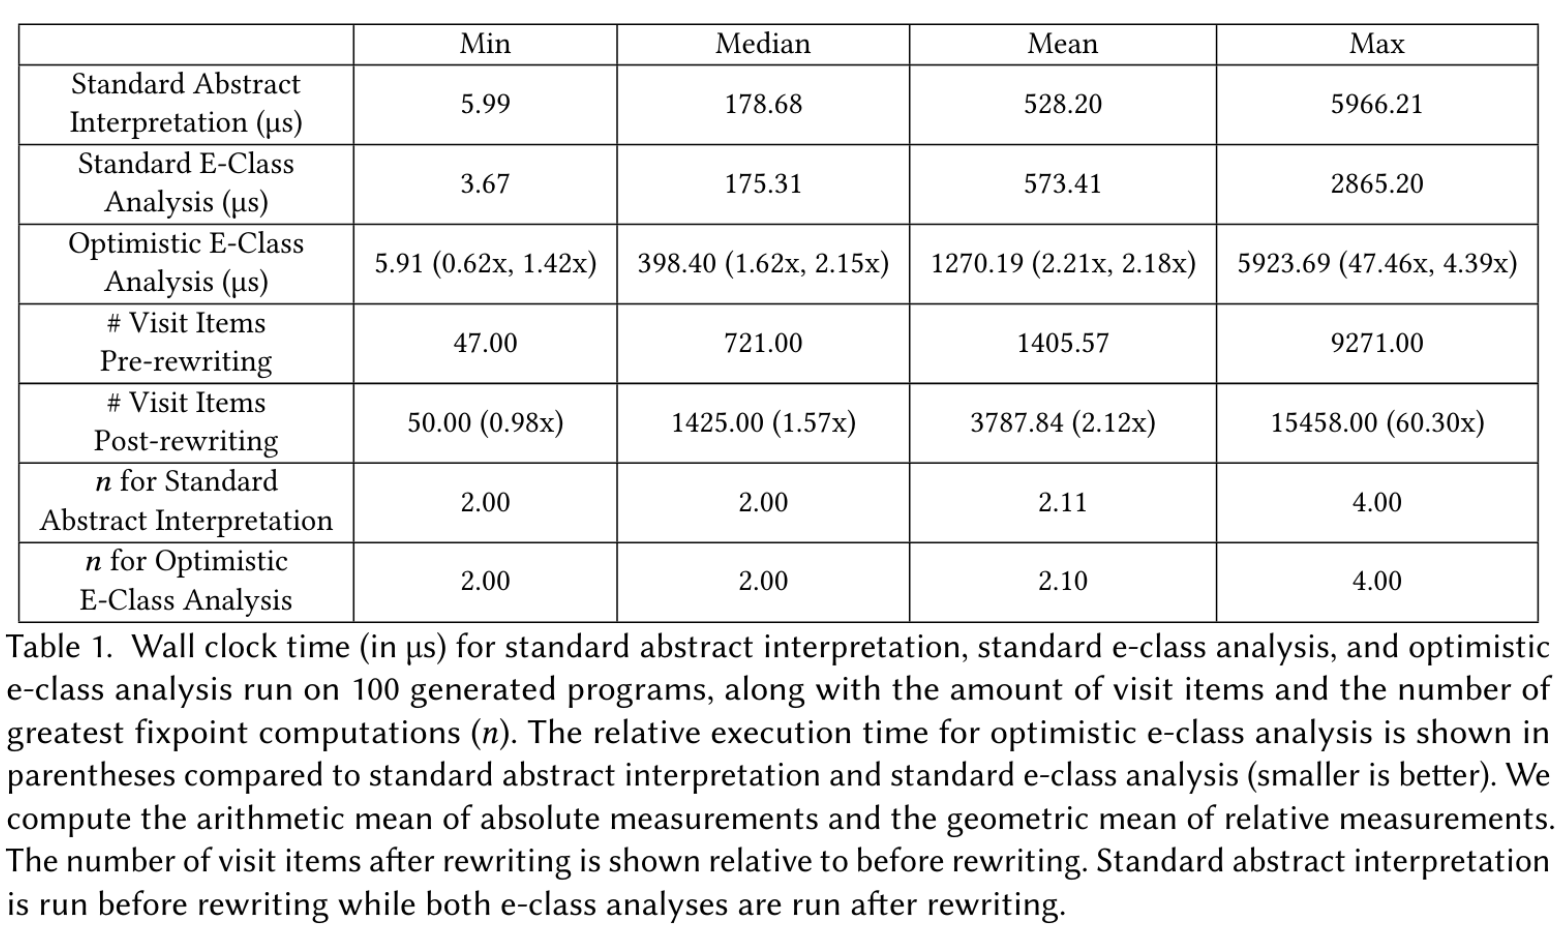
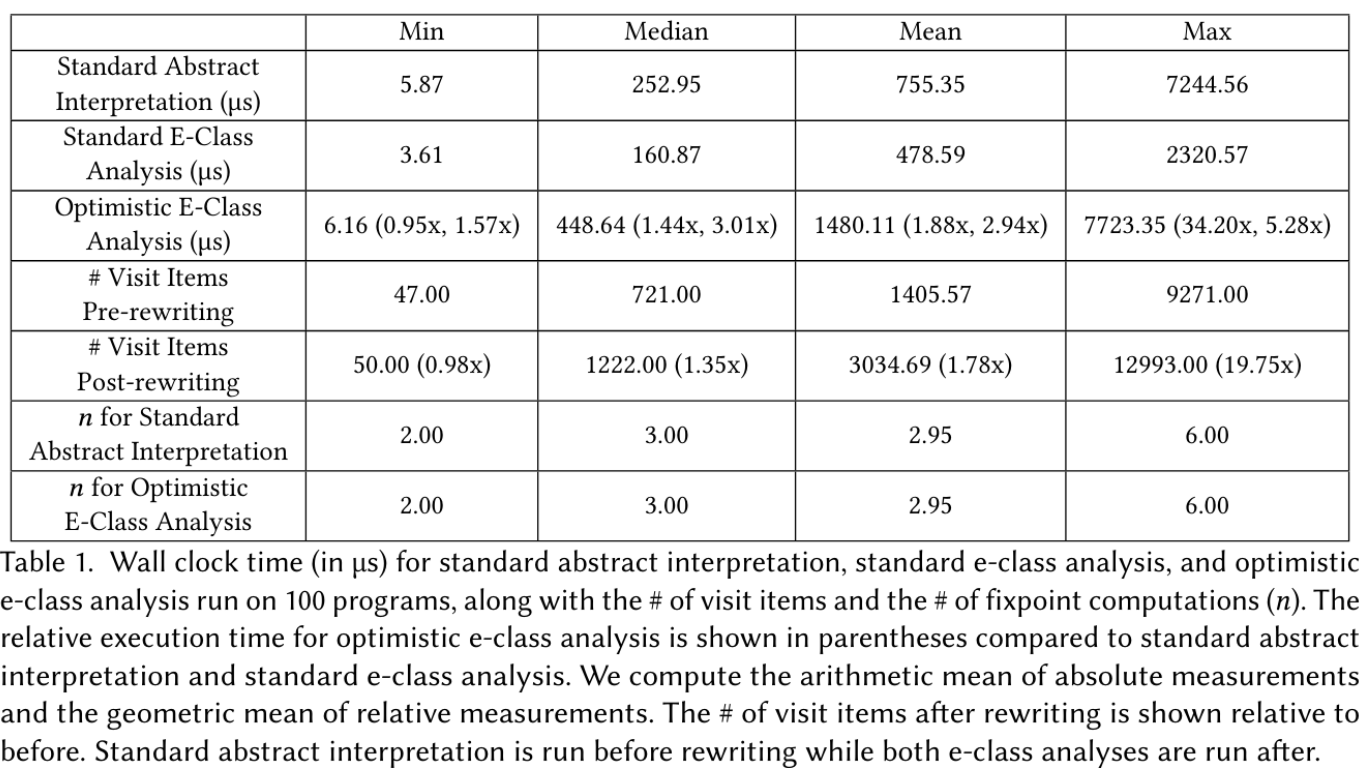
Artifact (camera ready paper version)

Changed region(s): [[0.0, 0.0, 1.0, 1.0]]

diff --git a/opt-eqsat/src/bin/experiment.rs b/opt-eqsat/src/bin/experiment.rs
@@ -98,8 +98,8 @@ fn main() {
     let mut max_component_head_phis = 0;
     let mut max_outer_iters1 = 0;
     let mut max_outer_iters3 = 0;
-    let mut num_outer_iters_is_two1 = 0;
-    let mut num_outer_iters_is_two3 = 0;
+    let mut num_outer_iters_is_at_most_three1 = 0;
+    let mut num_outer_iters_is_at_most_three3 = 0;
     let mut avg_avg_visits_per_item1 = 0.0f64;
     let mut avg_avg_visits_per_item2 = 0.0f64;
     let mut avg_avg_visits_per_item3 = 0.0f64;
@@ -212,11 +212,11 @@ fn main() {
         max_component_head_phis = max(max_component_head_phis, num_component_head_phis);
         max_outer_iters1 = max(max_outer_iters1, num_outer_iters1);
         max_outer_iters3 = max(max_outer_iters3, num_outer_iters3);
-        if num_outer_iters1 == 2 {
-            num_outer_iters_is_two1 += 1;
+        if num_outer_iters1 <= 3 {
+            num_outer_iters_is_at_most_three1 += 1;
         }
-        if num_outer_iters3 == 2 {
-            num_outer_iters_is_two3 += 1;
+        if num_outer_iters3 <= 3 {
+            num_outer_iters_is_at_most_three3 += 1;
         }
         avg_avg_visits_per_item1 += avg_visits_per_item1;
         avg_avg_visits_per_item2 += avg_visits_per_item2;
@@ -317,16 +317,16 @@ fn main() {
         format!("{}", num_e_nodes_per_program.iter().max().unwrap()).bold()
     );
     println!(
-        "Max number of outer iterations for standard program analysis:   {} (% where it's 2: {}%)",
+        "Max number of outer iterations for standard program analysis:   {} (% where it's at most 3: {}%)",
         max_outer_iters1,
-        num_outer_iters_is_two1 * 100 / NUM_PROGRAMS
+        num_outer_iters_is_at_most_three1 * 100 / NUM_PROGRAMS
     );
     println!(
         "Max number of outer iterations for optimistic e-class analysis: {}",
         format!(
-            "{} (% where it's 2: {}%)",
+            "{} (% where it's at most 3: {}%)",
             max_outer_iters3,
-            num_outer_iters_is_two3 * 100 / NUM_PROGRAMS
+            num_outer_iters_is_at_most_three3 * 100 / NUM_PROGRAMS
         )
         .bold()
     );
@@ -492,7 +492,7 @@ fn main() {
         \makecell{{$n$ for Optimistic \\ E-Class Analysis}} & {} & {} & {} & {} \\
          \hline
     \end{{tabular}}
-    \caption{{Wall clock time (in \textmu s) for standard abstract interpretation, standard e-class analysis, and optimistic e-class analysis run on 100 generated programs, along with the amount of visit items and the number of greatest fixpoint computations ($n$). The relative execution time for optimistic e-class analysis is shown in parentheses compared to standard abstract interpretation and standard e-class analysis (smaller is better). The number of visit items after rewriting is shown relative to before rewriting. Standard abstract interpretation is run before rewriting while both e-class analyses are run after rewriting.}}
+    \caption{{Wall clock time (in \textmu s) for standard abstract interpretation, standard e-class analysis, and optimistic e-class analysis run on 100 programs, along with the \# of visit items and the \# of fixpoint computations ($n$). The relative execution time for optimistic e-class analysis is shown in parentheses compared to standard abstract interpretation and standard e-class analysis. We compute the arithmetic mean of absolute measurements and the geometric mean of relative measurements. The \# of visit items after rewriting is shown relative to before. Standard abstract interpretation is run before rewriting while both e-class analyses are run after.}}
     \label{{tab:evaluation}}
 \end{{table}}
 "#,

diff --git a/opt-eqsat/src/analyses.rs b/opt-eqsat/src/analyses.rs
@@ -129,6 +129,7 @@ pub struct Analyses {
     pub intervals: FxHashMap<ClassId, Interval>,
     pub value_number_uf: RefCell<UnionFind>,
 
+    intervals_at_widening_points: FxHashMap<SSAValue, Interval>,
     values: FxHashMap<GVNValue, ClassId>,
 }
 
@@ -140,6 +141,7 @@ impl Analyses {
             intervals: FxHashMap::default(),
             value_number_uf: RefCell::new(UnionFind::from_num_ids(num_class_ids)),
 
+            intervals_at_widening_points: FxHashMap::default(),
             values: FxHashMap::default(),
         }
     }
@@ -220,13 +222,7 @@ impl Analyses {
         cond.is_zero()
     }
 
-    fn interval_transfer(
-        &self,
-        value: SSAValue,
-        id: ClassId,
-        cfg: &CFG,
-        old: Option<&Self>,
-    ) -> Interval {
+    fn interval_transfer(&mut self, value: SSAValue, cfg: &CFG, old: Option<&Self>) -> Interval {
         use SSAValue::*;
         match value {
             Constant(cons) => Interval::from_constant(cons),
@@ -245,11 +241,15 @@ impl Analyses {
                     (true, false) => rhs,
                     (false, false) => lhs.join(&rhs),
                 };
-                if (preds[0].2 || preds[1].2)
-                    && let Some(old) = old
-                {
-                    let old = old.intervals[&id];
-                    old.widen(&interval)
+                if preds[0].2 || preds[1].2 {
+                    self.intervals_at_widening_points.insert(value, interval);
+                    if let Some(old) =
+                        old.and_then(|old| old.intervals_at_widening_points.get(&value))
+                    {
+                        old.widen(&interval)
+                    } else {
+                        interval
+                    }
                 } else {
                     interval
                 }
@@ -320,7 +320,7 @@ impl Analyses {
             let changed = match visit {
                 Node(value, id) => {
                     let old_interval = self.intervals.get(&id).copied();
-                    let node_interval = self.interval_transfer(value, id, cfg, old);
+                    let node_interval = self.interval_transfer(value, cfg, old);
                     let interval = node_interval.meet(&old_interval.unwrap_or(Interval::top()));
                     self.intervals.insert(id, interval);
 

diff --git a/README.md b/README.md
@@ -79,13 +79,14 @@ Run the following command from the directory you created in step 1:
 This will run the empirical evaluation of the software artifact. Depending on hardware, this may take a few seconds to a few minutes. If everything is working correctly, you should see "All done!" appear in your shell. You should also see a line "Important info for paper:" - all the data included in the paper is displayed below this line. Verify the following numbers, from section 7.3 of the paper, were printed:
 
 ```
+Important info for paper:
 Max number of component heads (max number of loops): 184
-Max number of component head phis: 2919
-Max number of e-nodes: 14138
-Max number of outer iterations for standard program analysis:   4 (% where it's 2: 90%)
-Max number of outer iterations for optimistic e-class analysis: 4 (% where it's 2: 91%)
+Max number of component head phis: 3068
+Max number of e-nodes: 11375
+Max number of outer iterations for standard program analysis:   6 (% where it's at most 3: 99%)
+Max number of outer iterations for optimistic e-class analysis: 6 (% where it's at most 3: 99%)
 ...
-Average average visits per item per outer iteration for optimistic e-class analysis: 3.305997755346817 (max: 4.576758605943981)
+Average average visits per item per outer iteration for optimistic e-class analysis: 3.1864516691694984 (max: 4.380641551659829)
 ...
 ```
 
